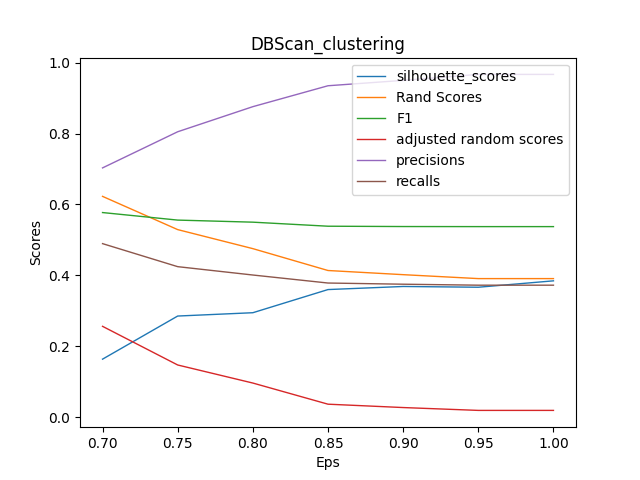
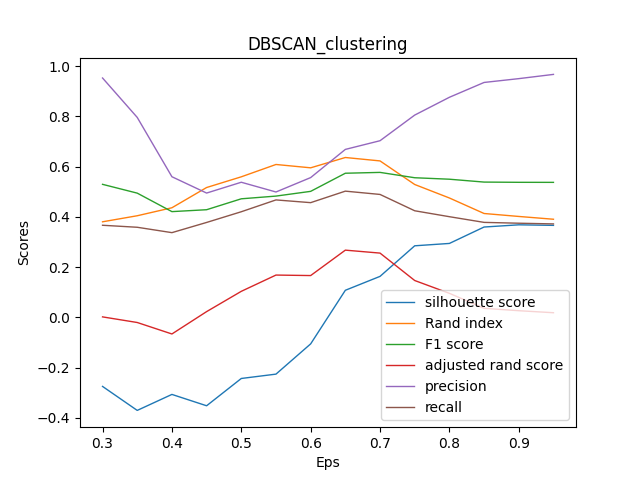
Changes

diff --git a/src/TP2.py b/src/TP2.py
@@ -9,7 +9,7 @@ import seaborn as sns
 import matplotlib.pyplot as plt
 from sklearn.feature_selection import f_classif
 from pandas.plotting import scatter_matrix
-from sklearn.cluster import KMeans, DBSCAN
+from sklearn.cluster import KMeans, DBSCAN, AgglomerativeClustering
 from sklearn.metrics import silhouette_score, adjusted_rand_score
 from sklearn.metrics import pairwise_distances
 from sklearn.neighbors import KNeighborsClassifier
@@ -81,12 +81,12 @@ def select_features(features, labels):
     return s_features[:,[1, 2, 3, 4]]
 
 def confusion_matrix(labels, pred):
-    matrix_labels=pairwise_distances(labels.reshape(-1,1),labels.reshape(-1,1),metric="hamming")
-    matrix_pred=pairwise_distances(pred.reshape(-1,1),pred.reshape(-1,1),metric="hamming")
-    TN=sum(matrix_pred[matrix_labels==1])/2
-    FP=(len(matrix_pred[matrix_labels==1])-sum(matrix_pred[matrix_labels==1]))/2
-    TP=(len(matrix_pred[matrix_labels==0])-matrix_pred.shape[0]-sum(matrix_pred[matrix_labels==0]))/2
-    FN=sum(matrix_pred[matrix_labels==0])/2
+    distances_labels=pairwise_distances(labels.reshape(-1,1),labels.reshape(-1,1),metric="hamming")
+    distances_predictions=pairwise_distances(pred.reshape(-1,1),pred.reshape(-1,1),metric="hamming")
+    TN=sum(distances_predictions[distances_labels==1])/2
+    FP=(len(distances_predictions[distances_labels==1])-sum(distances_predictions[distances_labels==1]))/2
+    TP=(len(distances_predictions[distances_labels==0])-distances_predictions.shape[0]-sum(distances_predictions[distances_labels==0]))/2
+    FN=sum(distances_predictions[distances_labels==0])/2
     return(TP, TN, FP, FN)
 
 def metric_estimation(s_features, pred, labeled_pred, nonzerolabels):
@@ -110,8 +110,8 @@ def metric_estimation(s_features, pred, labeled_pred, nonzerolabels):
 
 
 def k_means_clustering(s_features, labels, k):
-    model = KMeans(n_clusters=k)
-    pred = model.fit_predict(s_features)
+    model_kmeans = KMeans(n_clusters=k)
+    pred = model_kmeans.fit_predict(s_features)
 
     labeled_pred = pred[labels!=0]
     nonzerolabels = labels[labels!=0]
@@ -137,8 +137,8 @@ def plot_distances(data, num_neighbors):
     plt.close()
 
 def dbscan_clustering(s_features, labels, eps):
-    model = DBSCAN(eps=eps)
-    pred = model.fit_predict(s_features)
+    model_kmeans = DBSCAN(eps=eps)
+    pred = model_kmeans.fit_predict(s_features)
 
     labeled_pred = pred[labels!=0]
     nonzerolabels = labels[labels!=0]
@@ -179,11 +179,12 @@ def plot_metrics(range, isKMeans:bool, labels, s_features):
         plt.savefig("K_Means_clustering.png")
     else: 
         plt.xlabel("Eps")
-        plt.title("DBScan_clustering")
-        plt.savefig("DBScan_clustering.png")
+        plt.title("DBSCAN_clustering")
+        plt.savefig("DBSCAN_clustering.png")
     plt.show()
     plt.close()
     plt.show()
+
 def main():
     data = images_as_matrix()
 
@@ -210,12 +211,31 @@ def main():
     # We find a optimal epsilon value at 0.85 using the following function
     #plot_distances(s_features, 5)
 
-    Eps_range = np.arange(0.7, 1, 0.05)
+    Eps_range = np.arange(0.3, 1, 0.05)
     plot_metrics(Eps_range, False, labels=labels, s_features=s_features)
     dbscan_clustering(s_features, labels, eps=0.85)
 
     ids = np.loadtxt('labels.txt', delimiter=',', usecols = 0)
-    #report_clusters(ids, pred, f'k={k}.html')
+
+    # KMeans clustering using k = 4
+    k = 4
+    model_kmeans = KMeans(n_clusters=k)
+    pred = model_kmeans.fit_predict(s_features)
+    report_clusters(ids, pred, f'KMeans_k={k}.html')
+
+    # DBSCAN clustering using eps = 0.5
+    eps = 0.55
+    model_dbscan = DBSCAN(eps=eps)
+    pred = model_dbscan.fit_predict(s_features)
+    report_clusters(ids, pred, f'DBSCAN_eps={eps}.html')
+
+    # Aglomerative clustering using n = 4
+    n = 4
+    model_agglomerative = AgglomerativeClustering(n_clusters=n)
+    pred = model_agglomerative.fit_predict(s_features)
+    report_clusters(ids, pred, f'AgglomerativeClustering_n={n}.html')
+
+
 
 if __name__ == '__main__':
     main()
